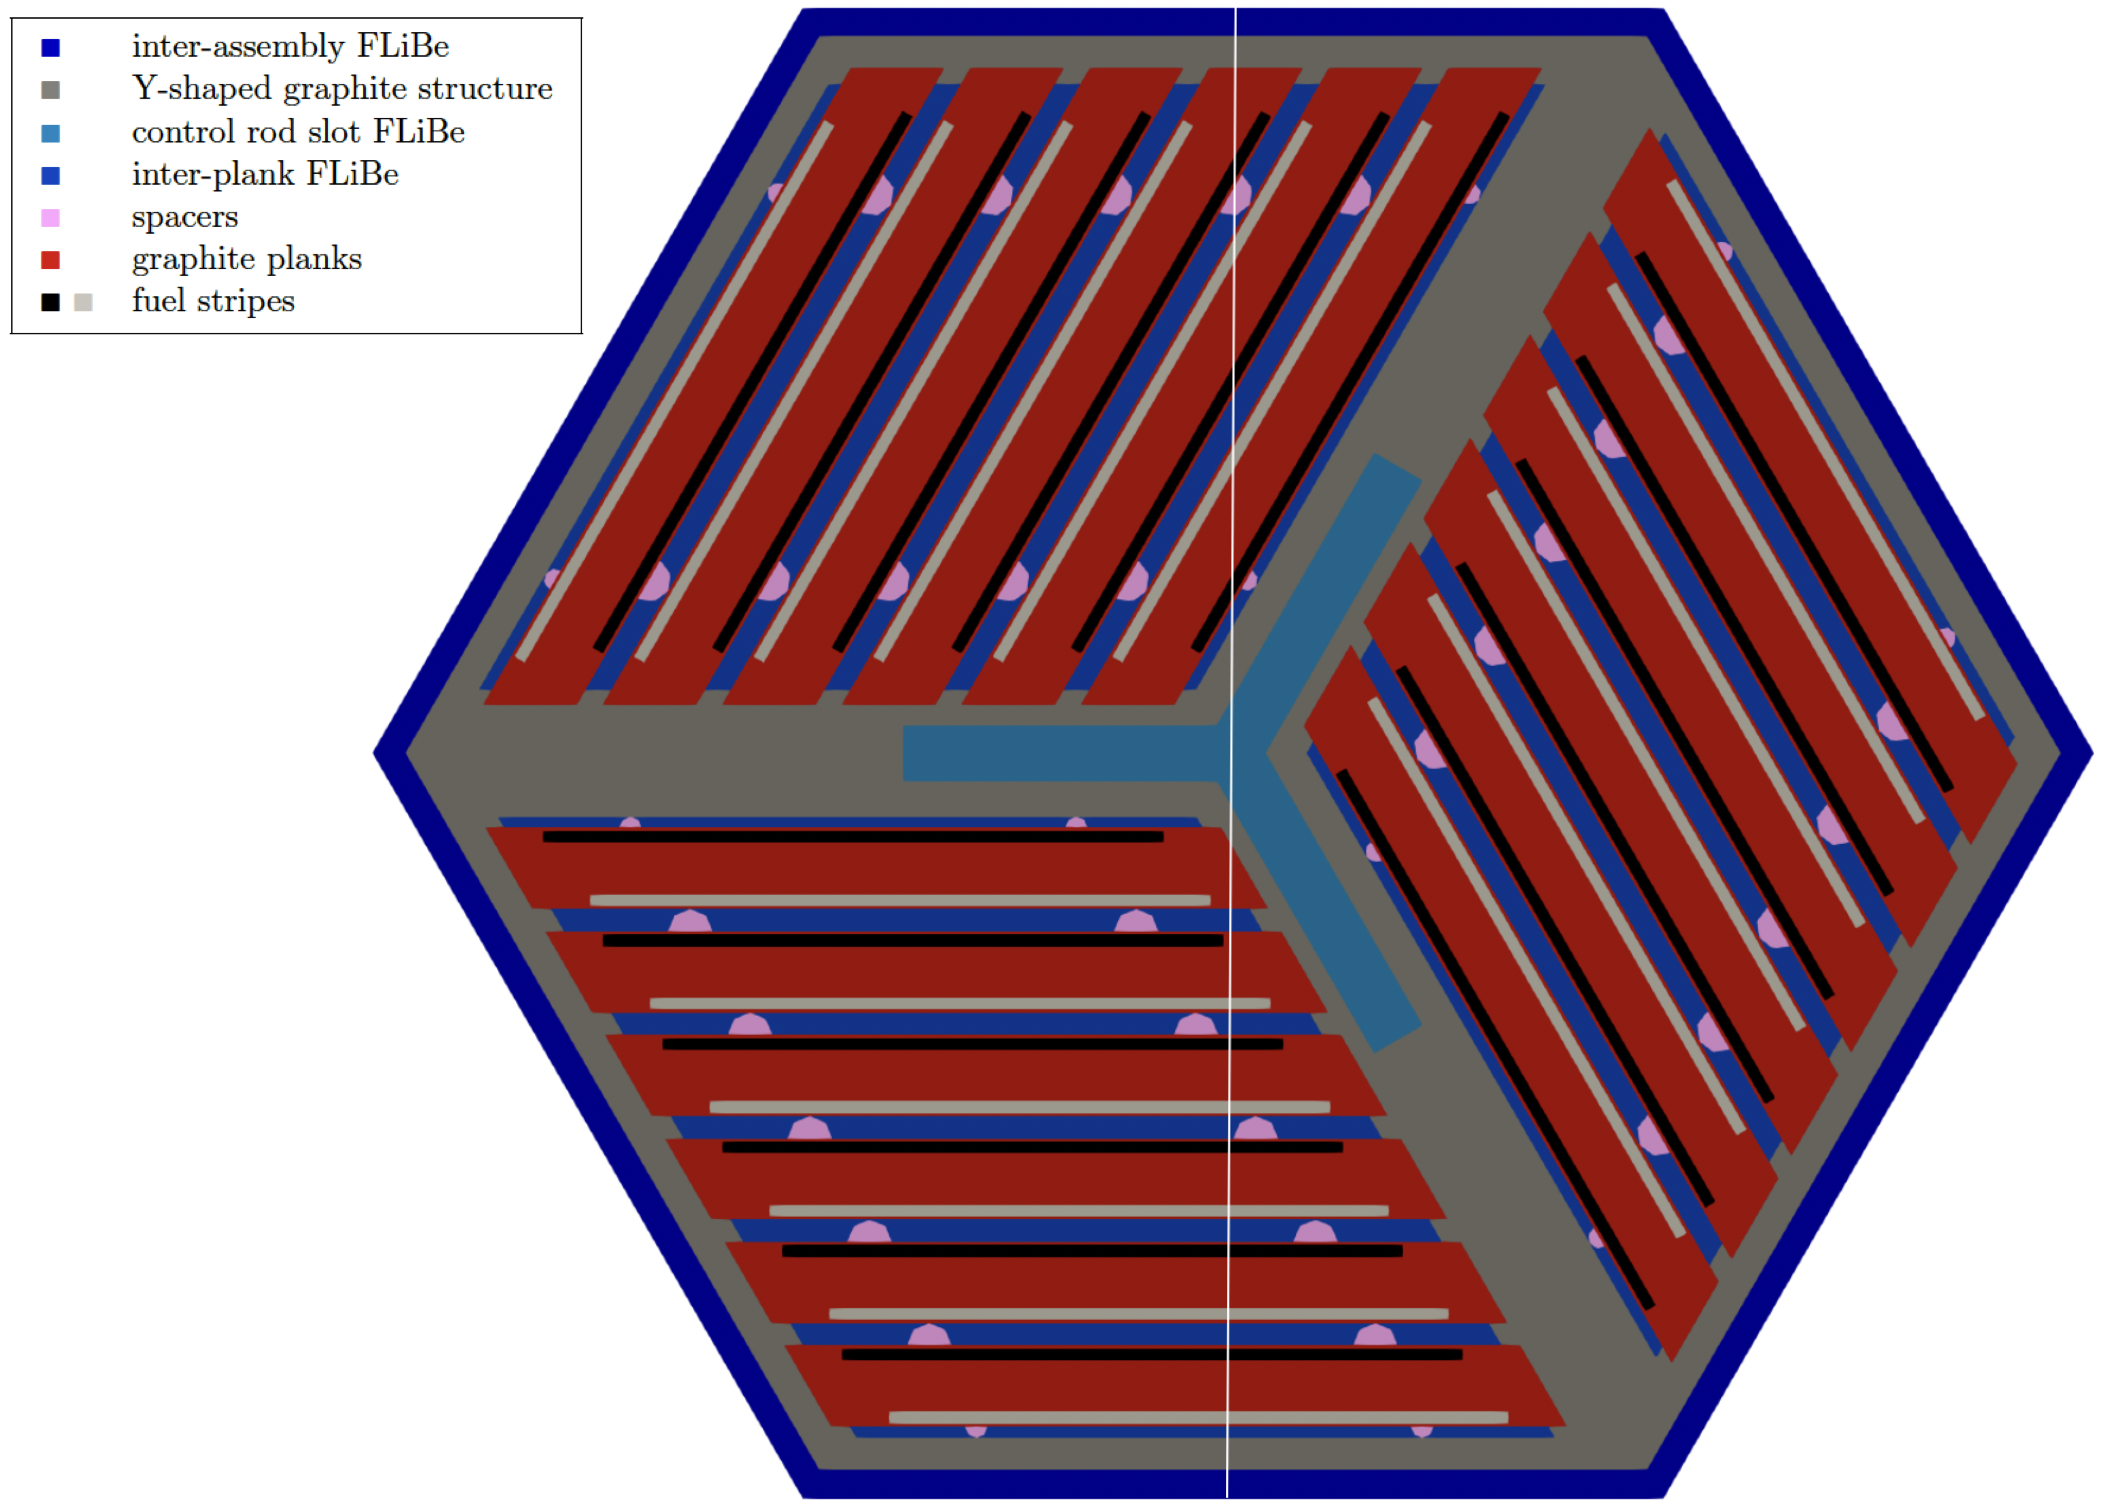
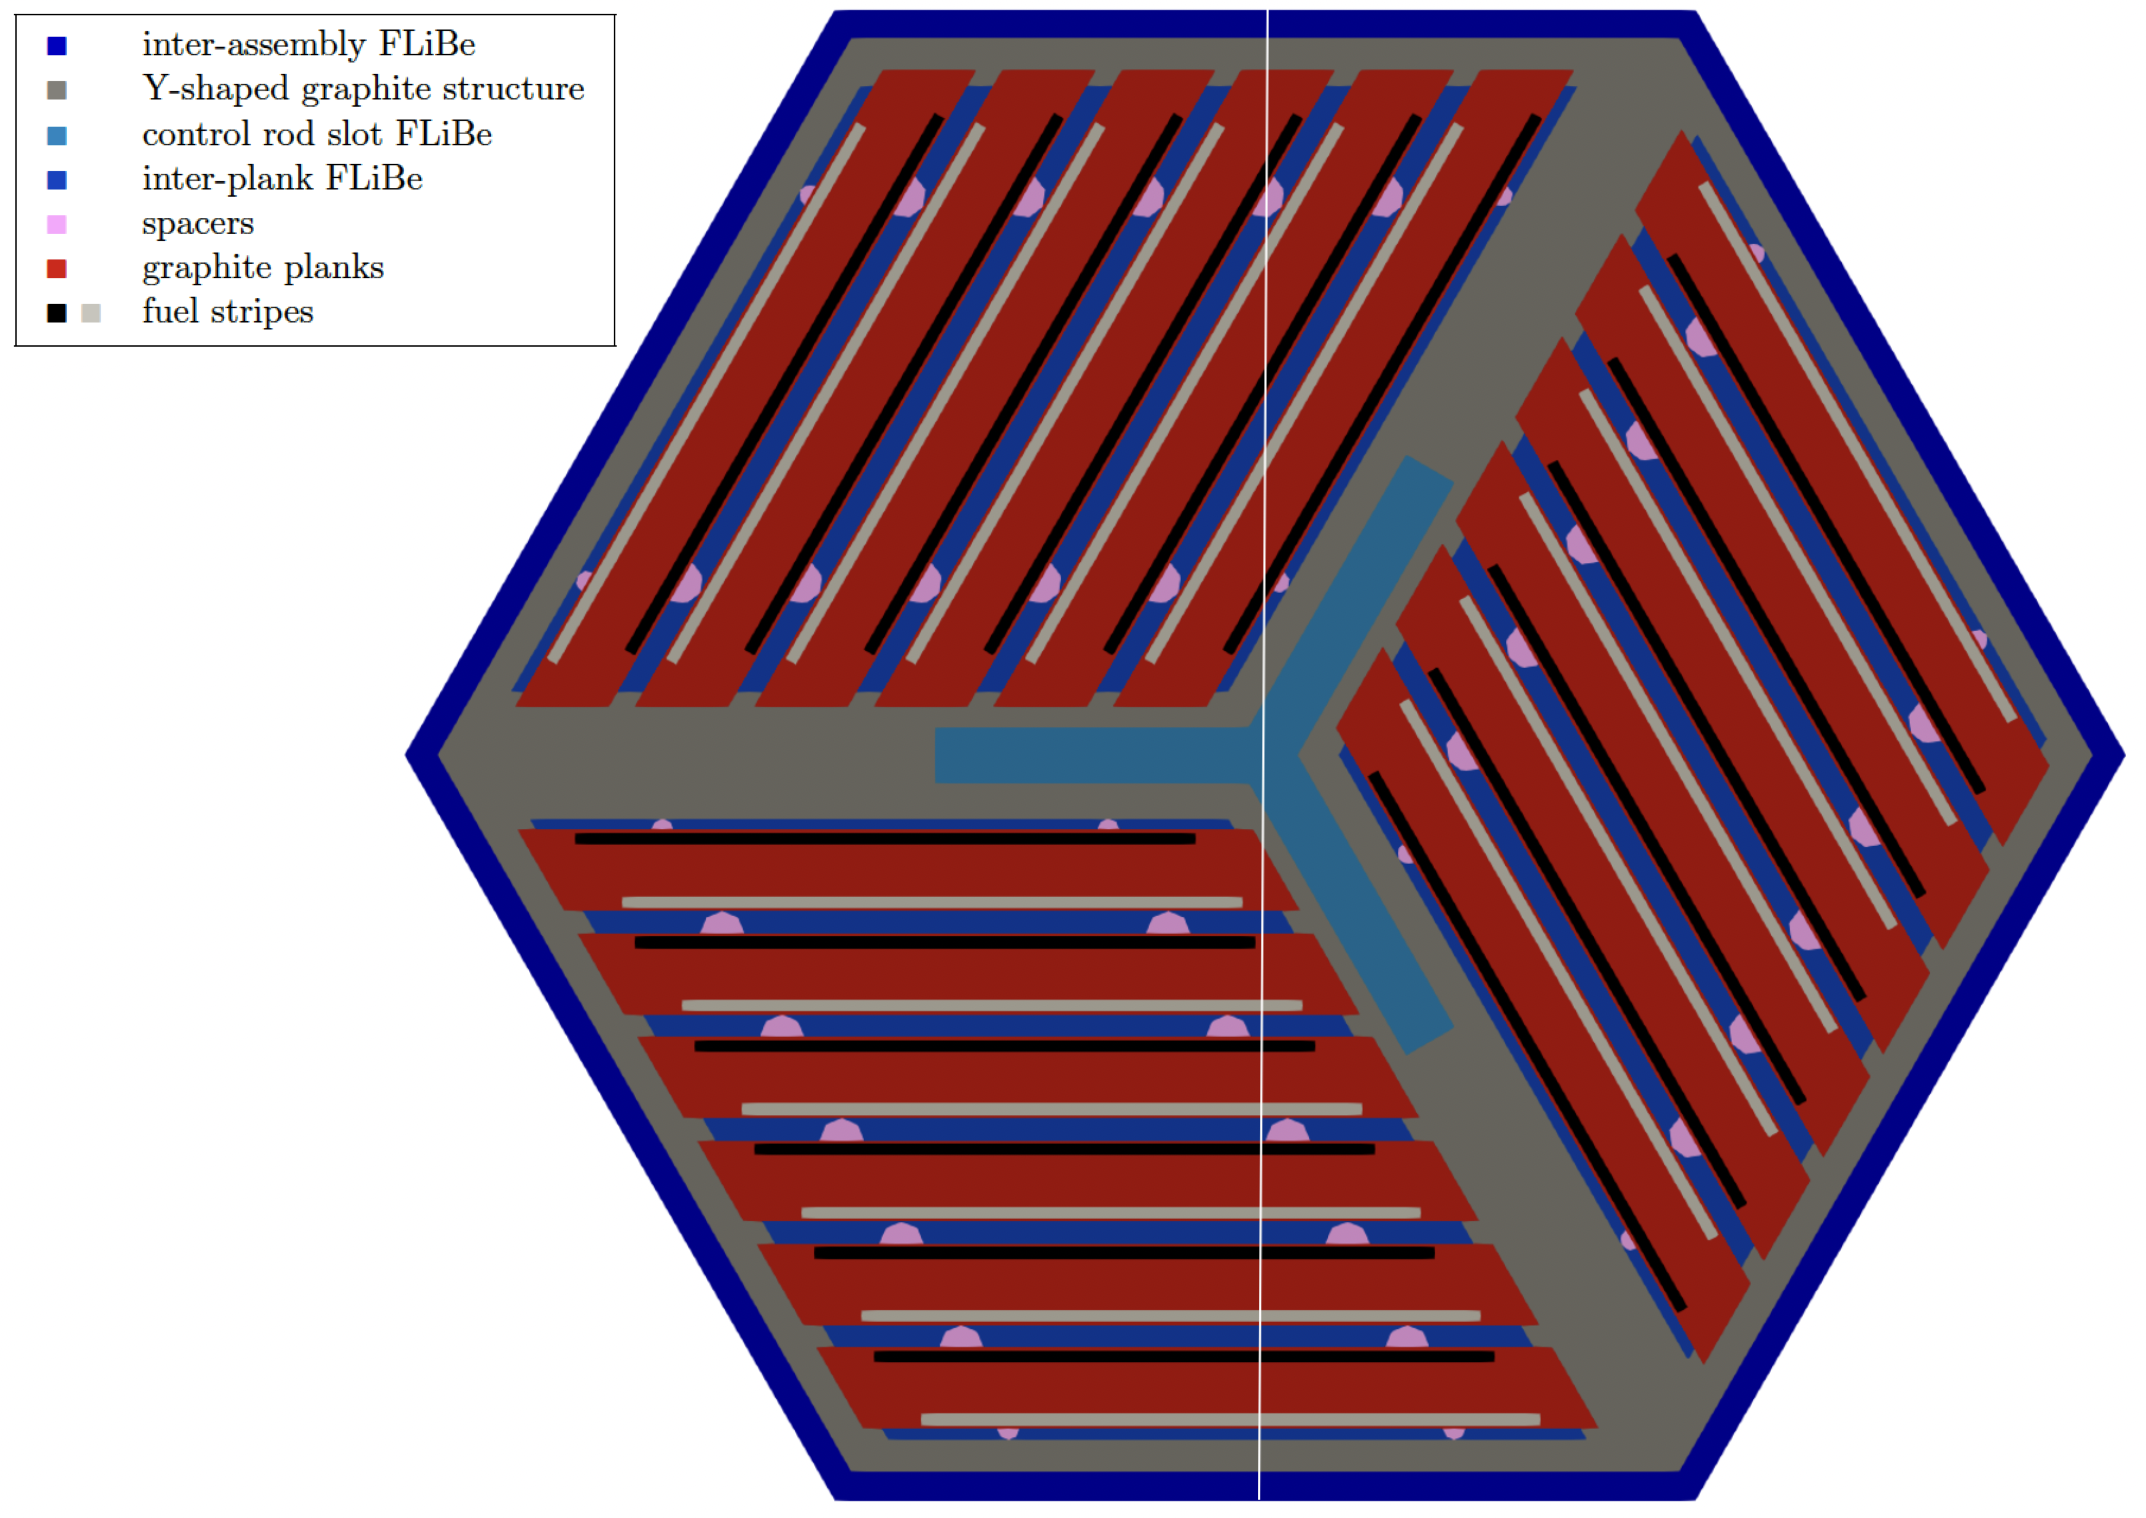
edits

Changed region(s): [[0.0, 0.0, 0.9678, 0.9947]]

diff --git a/pres/ahtr_model.tex b/pres/ahtr_model.tex
@@ -162,7 +162,7 @@
     \begin{figure}[]
         \begin{minipage}[c]{0.8\textwidth}
             \centering
-            \includegraphics[width=0.9\linewidth]{figures/assembly_mg_pres.png}
+            \includegraphics[width=0.8\linewidth]{figures/assembly_mg_pres.png}
         \end{minipage}\hfill
         \begin{minipage}[c]{0.2\textwidth}
         \caption{AHTR Assembly Spatial Homogenization for Group Constant Generation}
